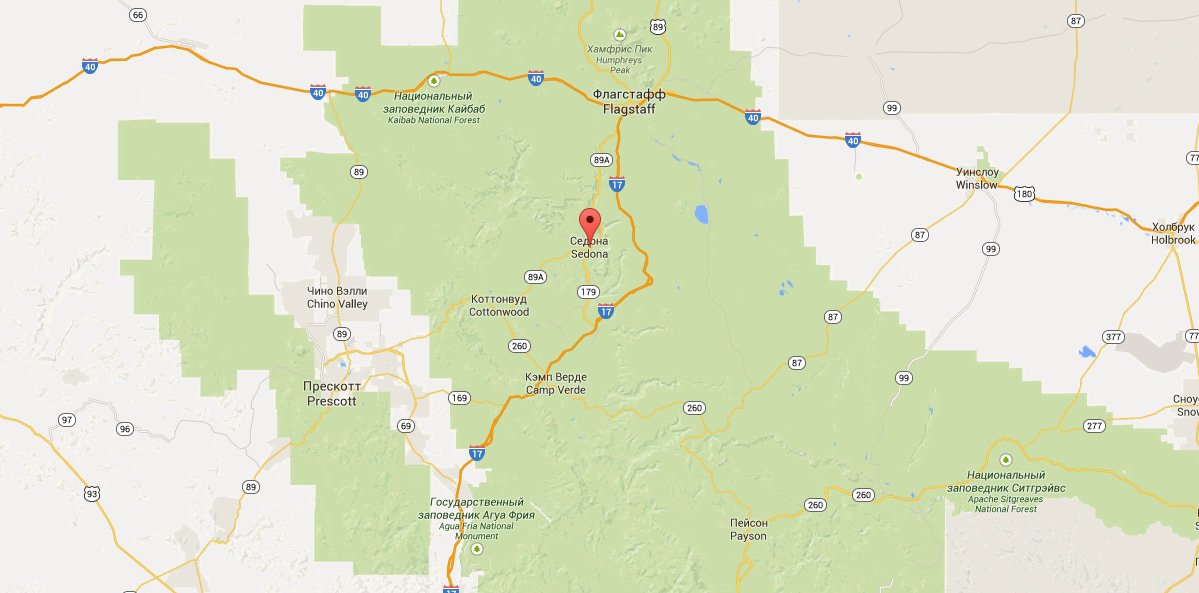
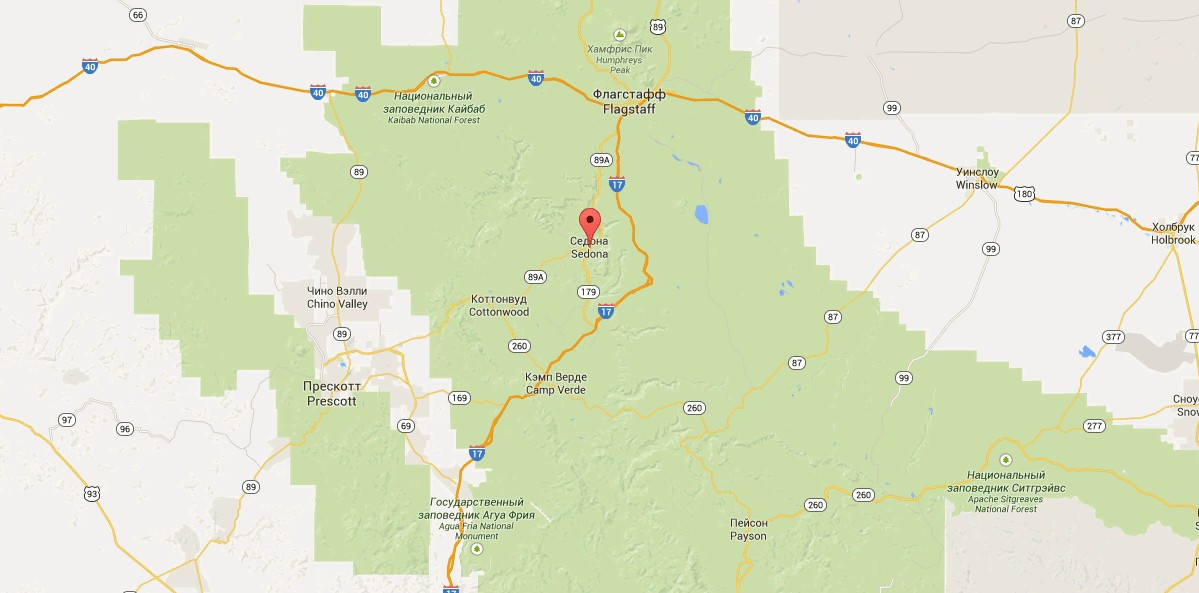
Изменила формат карты, подключила контентные изображения

diff --git a/index.html b/index.html
@@ -10,7 +10,7 @@
    <header>
      <nav>
        <a>
-         <img src="img/logo.png" width="138" height="70" alt="Sity of Sedona">
+         <img src="img/logo.png" width="138" height="70" alt="Седона">
        </a>
        <ul>
          <li><a href="index.html">Информация</a></li>
@@ -34,7 +34,7 @@
            <h2>Настоящий городок</h2>
            <p>- №1 -<br>Седона-не атракцион для туристов, там течет своя жизнь</p>
            <figure>
-             <img src="1.jpg" alt="Настоящий городок">
+             <img src="img/real-town.jpg" width="800" height="256" alt="Настоящий городок">
            </figure>
            <ul>
              <li>
@@ -55,7 +55,7 @@
            <h2>Там есть мост дьявола</h2>
            <p>- №2 -<br>Да, по нему можно пройтись! Если конечно вы осмелитесь</p>
            <figure>
-             <img src="2.jpg" alt="Мост дьявола">
+             <img src="img/bridge.jpg" width="800" height="256" alt="Мост дьявола">
            </figure>
          </li>
          <li>
@@ -76,7 +76,9 @@
      <section>
        <h2>Заинтересовались?</h2>
        <p>Укажите предполагаемые даты поездки, и мы покажем вам лучшие предложения гостиниц в Седоне</p>
-       <a href="">Тут будет карта</a>
+       <a href="">
+          <img src="img/map.jpg" width="1199" height="594" alt="Карта">>
+       </a>
      </section>
    </main>
 
